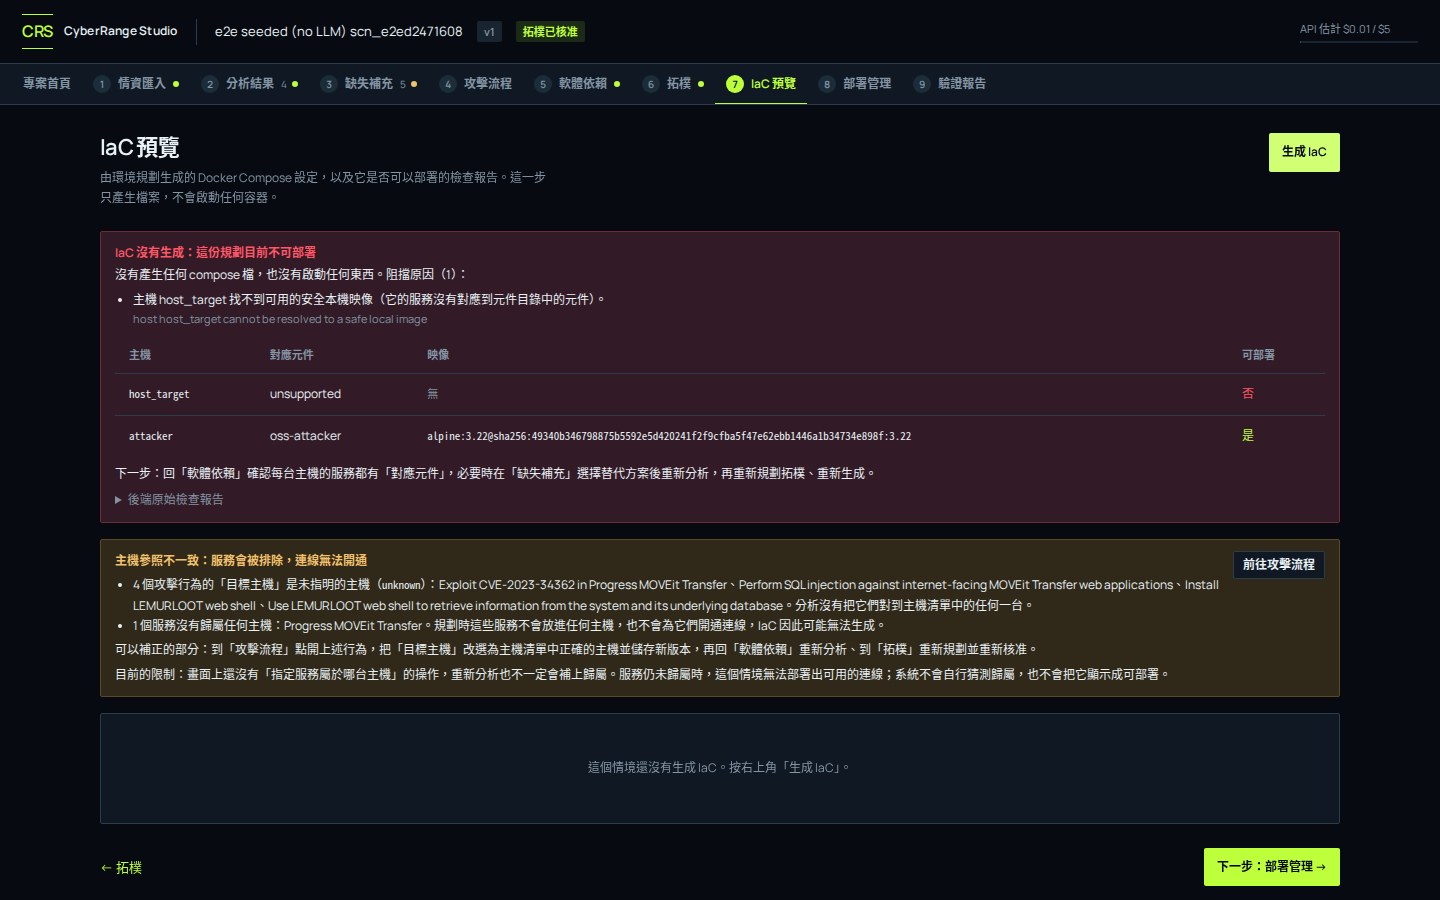
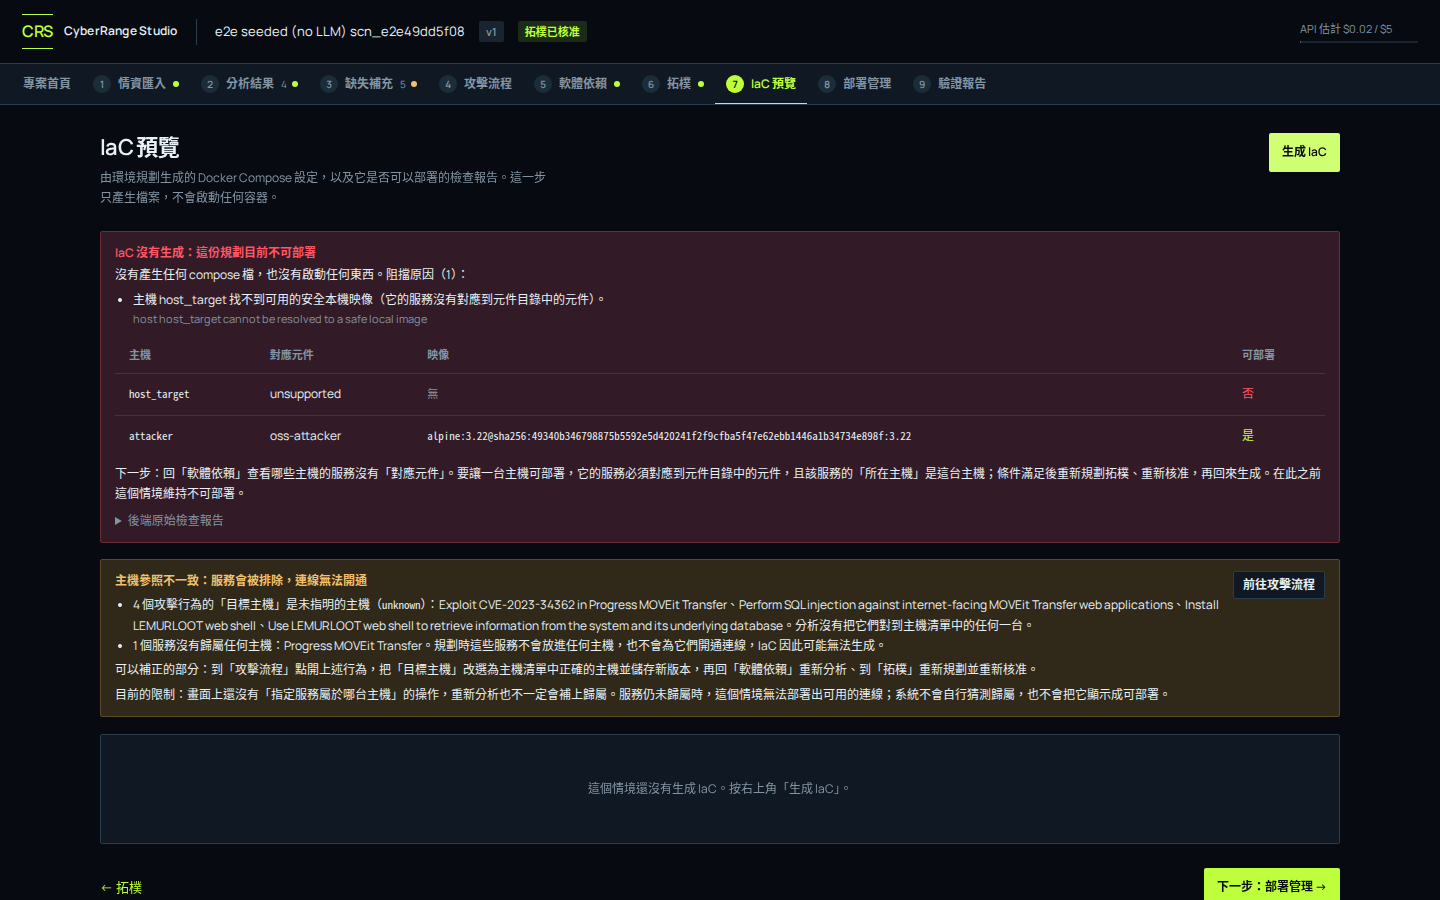
web: show where answers are written, no-component services, new planner notes, relation status reasons; report

diff --git a/apps/web/src/pages/DepsPage.tsx b/apps/web/src/pages/DepsPage.tsx
@@ -16,7 +16,10 @@ function ServiceRow({ s, hosts }: { s: ServiceItem; hosts?: string[] }) {
       <td className="mono">{s.version ?? <span className="muted">未知</span>}</td>
       <td>{hosts?.length ? hosts.join("、") : <span className="muted">—</span>}</td>
       <td>
-        {s.catalogue_component ? <span className="mono">{s.catalogue_component}</span> : <span className="muted">未對應</span>}
+        {s.catalogue_component ? <span className="mono">{s.catalogue_component}</span>
+          : (s as { no_component?: boolean }).no_component
+            ? <span className="status-FAIL" title="元件目錄裡沒有這個軟體，也不會自動用別的軟體頂替。要部署需在「缺失補充」明確選擇替代方案。">目錄無此元件</span>
+            : <span className="muted">未對應</span>}
         {s.is_substitute && <span className="tag sub" style={{ marginLeft: 6 }} title="環境中使用的不是報告裡的原始軟體">替代品</span>}
       </td>
       <td>{s.cve?.length ? s.cve.map((c) => <div key={c} className="mono">{c}</div>) : <span className="muted">—</span>}</td>
@@ -42,6 +45,12 @@ function Body({ ir }: { ir: ScenarioIR }) {
     hosts.forEach((h) => h.service_refs?.forEach((r) => m.set(r, [...(m.get(r) ?? []), h.role || h.id])));
     return m;
   }, [hosts]);
+  const hostOfRef = (s: ServiceItem) => {
+    const ref = (s as { host_ref?: string }).host_ref;
+    const h = ref ? hosts.find((x) => x.id === ref) : undefined;
+    return ref ? [h?.role || ref] : undefined;
+  };
+  const noComponent = services.filter((s) => (s as { no_component?: boolean }).no_component);
   const substitutes = services.filter((s) => s.is_substitute);
   const has = hosts.length > 0 || services.length > 0;
   // The dependency analysis stamps a fidelity verdict on the IR; without it, what is listed below came straight from the report analysis.
@@ -65,6 +74,15 @@ function Body({ ir }: { ir: ScenarioIR }) {
         </Notice>
       )}
       {analysed && <RefIssuesNotice ir={ir} context="deps" />}
+      {analysed && noComponent.length > 0 && (
+        <Notice kind="warn" title={`${noComponent.length} 個軟體在元件目錄中沒有可部署的對應`}>
+          <div data-testid="no-component">
+            {noComponent.map((s) => s.name || s.id).join("、")}。系統不會自動拿別的軟體頂替，所以目前這個情境無法生成可部署的 IaC。
+            若接受用替代軟體教學，可到「缺失補充」對相關項目選「用替代方案」並寫明用什麼替代，再回來重新分析。
+            重新分析後請在下方確認：替代軟體有出現在該主機的「服務」欄，且「對應元件」有值。只出現在服務清單、「所在主機」是「—」的替代軟體不會被部署。
+          </div>
+        </Notice>
+      )}
 
       {!has ? (
         <div className="card"><Empty>這個情境還沒有主機與服務資料。按右上角「執行依賴分析」由後端產生。</Empty></div>
@@ -107,7 +125,7 @@ function Body({ ir }: { ir: ScenarioIR }) {
             {services.length === 0 ? <Empty>沒有服務資料。</Empty> : (
               <table className="tbl">
                 <thead><tr><th>名稱</th><th>版本</th><th>所在主機</th><th>對應元件</th><th>CVE</th><th>依據</th><th>來源</th></tr></thead>
-                <tbody>{services.map((s) => <ServiceRow key={s.id} s={s} hosts={hostsOf.get(s.id)} />)}</tbody>
+                <tbody>{services.map((s) => <ServiceRow key={s.id} s={s} hosts={hostsOf.get(s.id) ?? hostOfRef(s)} />)}</tbody>
               </table>
             )}
           </div>

diff --git a/apps/web/src/pages/MissingPage.tsx b/apps/web/src/pages/MissingPage.tsx
@@ -458,6 +458,19 @@ export function openCardCount(ir: ScenarioIR): number {
   return buildGroups(ir, makeNamer(ir)).filter((g) => g.items[0].status === "open").length;
 }
 
+/** Fields the backend added to missing items that the shared TS type may not list yet. */
+type Where = { collection?: string; id?: string; field?: string };
+const itemX = (m: MissingItem) => m as MissingItem & { target?: Where; applied_to?: Where; write_back?: string };
+const WHERE_FIELD: Record<string, string> = { os: "作業系統", os_version: "作業系統版本", network_placement: "網路位置", version: "版本", port: "埠號", name: "名稱", role: "角色" };
+/** "主機 victim-web 的作業系統" for a write-back location; empty when there is none. */
+function whereText(w: Where | undefined, ir: ScenarioIR): string {
+  if (!w || !w.id) return "";
+  const isHost = w.collection === "hosts";
+  const rec: any = (isHost ? ir.hosts : ir.services)?.find((x) => x.id === w.id);
+  const label = rec ? (isHost ? rec.name || rec.role : rec.name) || w.id : w.id;
+  return `${isHost ? "主機" : "服務"} ${label} 的${WHERE_FIELD[w.field ?? ""] ?? w.field ?? "欄位"}`;
+}
+
 const clip = (q: string, n = 160) => (q.length > n ? `${q.slice(0, n)}…` : q);
 
 function ItemCard({ group, ir, scenarioId, onDone, hasPdf, locate, located }: {
@@ -564,6 +577,9 @@ function ItemCard({ group, ir, scenarioId, onDone, hasPdf, locate, located }: {
         <div style={{ fontSize: 13 }}>
           <span className="muted">處理內容：</span>{item.resolution} <SourceTag source={item.resolution_source} />
           {item.status === "llm_suggested" && <span className="muted" style={{ fontSize: 12 }}>（LLM 的建議，尚未經你確認）</span>}
+          {whereText(itemX(item).applied_to, ir) && <div className="muted" style={{ fontSize: 12 }} data-testid="applied-to">已寫入情境資料：{whereText(itemX(item).applied_to, ir)}（標示為使用者來源）。</div>}
+          {!itemX(item).applied_to && itemX(item).write_back && <div className="muted" style={{ fontSize: 12 }} data-testid="write-back">只保留為文字，沒有寫入主機／服務欄位：{itemX(item).write_back}</div>}
+          {!itemX(item).applied_to && !itemX(item).write_back && item.status !== "open" && item.status !== "accepted_unknown" && <div className="muted" style={{ fontSize: 12 }}>這個回答只保留為文字紀錄；後續的依賴分析與拓樸規劃不一定會採用。</div>}
         </div>
       )}
 
@@ -617,6 +633,11 @@ function ItemCard({ group, ir, scenarioId, onDone, hasPdf, locate, located }: {
           </div>
           <textarea rows={2} value={text} onChange={(e) => setText(e.target.value)} placeholder={res.placeholder} disabled={submit.busy}
             aria-label={res.needText ? `${res.label}（必填）` : `${res.label}備註（選填）`} aria-required={res.needText} />
+          {mode !== "accepted_unknown" && whereText(itemX(item).target, ir) && (
+            <div className="muted" style={{ fontSize: 12 }} data-testid="write-target">
+              送出後，你填的內容會原樣寫入「{whereText(itemX(item).target, ir)}」。請只填這個欄位的值（例如作業系統就填作業系統名稱），其他說明請用頁面下方的自由補充。
+            </div>
+          )}
           <div className="muted" style={{ fontSize: 12 }} data-testid="resolution-hint">
             {res.needText
               ? (text.trim() ? "送出後會標示為使用者來源，不會當成原文證據。" : "必填：請先填寫內容，「送出」才會啟用。")

diff --git a/apps/web/src/pages/TopologyPage.tsx b/apps/web/src/pages/TopologyPage.tsx
@@ -116,6 +116,13 @@ const NOTE_RULES: [RegExp, (m: RegExpMatchArray) => string][] = [
   [/^Actions for host (.+) do not identify one of its multiple services; no inbound service port was opened\.$/, (m) => `針對主機 ${m[1]} 的行為沒有指明是它的哪一個服務，未開通任何連入埠。`],
   [/^Confirmed dependency (.+) has no uniquely identified destination service port; default deny remains in effect\.$/, (m) => `已確認的依賴 ${m[1]} 無法唯一對應到目的服務埠，維持預設拒絕。`],
 ];
+NOTE_RULES.push(
+  [/^Host (.+) was placed on the external network as the inferred entry point \(basis: (.+)\); the source does not state its network placement\. Confirm or correct it\.$/, (m) => `主機 ${m[1]} 被放在對外網路，當作推定的入侵入口（依據：${m[2]}）。原文沒有寫它的網路位置，請確認或在「缺失補充」更正。`],
+  [/^No target host is stated or inferable as reachable from outside; .*$/, () => "沒有任何目標主機被寫明或可推定為外部可達；在補上某台主機的網路位置之前，攻擊者到不了任何目標。"],
+  [/^Host (.+) needs (.+), which the catalogue cannot deploy \((.+)\)\. It is not replaced by a stand-in\.$/, (m) => `主機 ${m[1]} 需要 ${m[2]}，元件目錄無法部署它（${m[3]}）；系統沒有用其他軟體頂替。`],
+  [/^Host (.+) needs (.+) as a VM, which is not deployable yet \((.+)\)\.$/, (m) => `主機 ${m[1]} 需要以虛擬機執行 ${m[2]}，目前還不能部署（${m[3]}）。`],
+  [/^Action (.+) is stated to run from (.+) against (.+), but no destination service port is identified; the path stays denied\.$/, (m) => `行為 ${m[1]} 寫明由 ${m[2]} 對 ${m[3]} 發動，但找不到目的服務埠，這條路徑維持不通。`],
+);
 const noteZh = (n: string): string | null => { for (const [re, f] of NOTE_RULES) { const m = n.match(re); if (m) return f(m); } return null; };
 
 function Body({ ir }: { ir: ScenarioIR }) {

diff --git a/apps/web/src/pages/AnalysisPage.tsx b/apps/web/src/pages/AnalysisPage.tsx
@@ -340,7 +340,10 @@ function Body({ ir }: { ir: ScenarioIR }) {
                     <td>{actionName.get(r.from_action) ?? <span className="mono muted">{r.from_action}</span>}</td>
                     <td><span className={`tag ${r.kind === "dependency" ? "dep" : "temporal"}`}>{r.kind === "dependency" ? "依賴" : "時間先後"}</span></td>
                     <td>{actionName.get(r.to_action) ?? <span className="mono muted">{r.to_action}</span>}</td>
-                    <td className="muted" style={{ fontSize: 12 }}>{r.rationale ?? "—"}</td>
+                    <td className="muted" style={{ fontSize: 12 }}>
+                      {r.rationale ?? "—"}
+                      {(r as { epistemic_reason?: string }).epistemic_reason && <div title="後端說明為何不把這條關係標成原文支持（英文原文）">判定依據：{(r as { epistemic_reason?: string }).epistemic_reason}</div>}
+                    </td>
                     <td className="nowrap"><EpistemicBadge status={r.epistemic_status} source={r.source} /><div style={{ marginTop: 4 }}><SourceTag source={r.source} /></div></td>
                     <td>
                       <div style={{ marginBottom: 5 }}><CitationBadge summary={cite(r)} source={r.source} basis={isInferred(r)} /></div>

diff --git a/apps/web/src/pages/IacPage.tsx b/apps/web/src/pages/IacPage.tsx
@@ -76,7 +76,7 @@ function IacFailure({ detail }: { detail: { errors: string[]; report: any } }) {
             </table>
           </div>
         )}
-        <div>下一步：回「軟體依賴」確認每台主機的服務都有「對應元件」，必要時在「缺失補充」選擇替代方案後重新分析，再重新規劃拓樸、重新生成。</div>
+        <div>下一步：回「軟體依賴」查看哪些主機的服務沒有「對應元件」。要讓一台主機可部署，它的服務必須對應到元件目錄中的元件，且該服務的「所在主機」是這台主機；條件滿足後重新規劃拓樸、重新核准，再回來生成。在此之前這個情境維持不可部署。</div>
         {detail.report && <details style={{ marginTop: 6 }}><summary className="muted" style={{ cursor: "pointer" }}>後端原始檢查報告</summary><div style={{ marginTop: 6 }}><DataView data={detail.report} /></div></details>}
       </div>
     </Notice>

diff --git a/apps/web/src/components/RefIssues.tsx b/apps/web/src/components/RefIssues.tsx
@@ -25,7 +25,7 @@ export function findRefIssues(ir: ScenarioIR): RefIssues {
       ? ir.actions.filter((a) => a.target_host_ref && !isPlaceholder(a.target_host_ref) && !hostIds.has(a.target_host_ref)).map((a) => ({ ...named(a), ref: a.target_host_ref! }))
       : [],
     placeholderActions: ir.actions.filter((a) => isPlaceholder(a.target_host_ref)).map(named),
-    unplacedServices: (ir.services ?? []).filter((s) => !placed.has(s.id)).map((s) => ({ id: s.id, name: s.name })),
+    unplacedServices: (ir.services ?? []).filter((s) => !placed.has(s.id) && !(s as { host_ref?: string }).host_ref).map((s) => ({ id: s.id, name: s.name })),
   };
 }
 

diff --git a/reports/overnight/worker-reports/frontend-eng.md b/reports/overnight/worker-reports/frontend-eng.md
@@ -69,6 +69,28 @@ CR_ENV_FILE=/home/tyc4d/cr-project/.env CR_BUDGET_HARD_CAP_USD=5 CR_BUDGET_STOP_
 
 觀察到但沒有處理（列給 Lead 判斷）：流程頁的設計檢查對「4 個行為的目標主機都是 unknown」顯示「沒有發現問題／通過」。加一條檢查規則屬於新增檢查項目，我沒有自行加。
 
+## 批次 5（commit 12bdad5）
+
+| QA 編號 | 問題 | 修法 | 驗證 |
+|---|---|---|---|
+| UX-03 | 後端 severity=major，畫面一律顯示「次要」 | 所有項目嚴重度相同時，標籤沿用後端的字，只用影響步驟數排序 | e2e 通過；截圖 09 |
+| UX-04 | 程式放的佔位主機被寫成「原文已知」 | 後端標 supported 才寫「原文已知」，否則寫「系統推定（原文未證實）」 | e2e 通過；截圖 09 |
+| UX-02 | 英文的缺失原因被藏起來 | 英文原因照樣顯示，標明是後端英文原文 | 無 e2e |
+| UX-05 | 按下一步後停在前一頁的捲動位置 | 換頁時主內容捲回頂端 | e2e 通過 |
+| UX-06 | 矮視窗展開設計檢查後控制項蓋住節點 | 視窗高度 ≤ 800 時，設計檢查開合後自動重新置中 | 截圖 08 人工檢視：節點不再被圖例或工具列遮住。**只測了「1280×720 進頁後展開」，沒測 QA 的「先展開再縮小視窗」** |
+| ADM-06 | 部署歷史點列看不到細節 | 紀錄列可展開「完整輸出」（stderr／stdout 原文） | 無 e2e（測試用的失敗紀錄沒有輸出內容） |
+| ADM-07B | healthy 的意思不清楚 | 健康檢查下方說明：只代表容器在執行、未回報不健康，服務是否可用看驗證報告 | 無 e2e（需要已部署的環境） |
+
+## 批次 6（配合 scenario-eng 後端新欄位；本分支已合併 agent/scenario-eng 887ef7b，merge 080e381）
+
+- 缺失卡片：回答前說明「你填的內容會原樣寫入〈主機 X 的作業系統〉」，回答後顯示「已寫入情境資料：…」或「只保留為文字，沒有寫入」及後端給的原因（對應 EI-05）。e2e 通過並比對後端實際儲存值；截圖 11、12。
+- 依賴頁：目錄沒有的軟體標「目錄無此元件」並有整頁提示；服務的所在主機也讀後端新的 `host_ref`。e2e 通過；截圖 10。
+- 拓樸：新增 5 種規劃備註的中文（推定入口主機、無外部可達主機、目錄無法部署、VM 尚不可部署、行為路徑無目的埠）。無 e2e。
+- 分析頁關係表：顯示後端的 `epistemic_reason`（為何不標成原文支持）。無 e2e。
+- scenario-eng 列的前端待辦中**尚未做**：`source_certainty=hedged`、`exposure_basis`、`quality.excluded_non_attacker_actions` 的顯示。
+
+`qa-fixes`＋`motion`：13 passed；`tsc`、`npm run build` 通過。
+
 ## 完整 `npm run e2e` 結果（未通過）
 
 | 執行 | 後端 | 結果 |
@@ -81,6 +103,10 @@ CR_ENV_FILE=/home/tyc4d/cr-project/.env CR_BUDGET_HARD_CAP_USD=5 CR_BUDGET_STOP_
 - 我沒有修改 `full-flow.spec.ts` 的斷言。
 - 第 2 次多出的失敗是我自己的測試：新後端在補件回應裡會新增一筆後續問題（`missing-service-svc1-version`），所以「待補充數 −1」不成立。已改成比對後端實際狀態（該項為 accepted_unknown、頁面數字等於後端 open 數），不是放寬成功條件。
 - 合併後後端單元測試：`93 passed`。
+- **第 3 次**（合併 scenario-eng 887ef7b 後）：12 passed／1 failed／1 未執行。full-flow 這次通過拓樸（2 條連線），改在 IaC 步驟失敗：後端拒絕生成，`h1`、`h2` 找不到可用映像，因為 demo 報告裡的「web service／database service」在目錄中沒有對應元件（`no_component`），新後端不再自動用 nginx／postgres 頂替。部署段仍未執行。
+- 我用 API 試了「選替代方案」這條路：對 `planner_dep_software-web-service`／`-database-service` 送出 substitute_chosen（nginx、PostgreSQL）後重新分析，會多出 `svc-oss-nginx`、`svc-oss-postgres` 兩個使用者服務，但它們沒有歸屬主機、`is_substitute=false`，原本的 s1／s2 仍是 `no_component`；重新規劃後備註寫「沒有主機歸屬的服務被排除」，IaC 照樣 422。**也就是目前 demo 情境沒有任何畫面操作能走到可部署**，full-flow e2e 在這個後端上無法通過，需要後端決定替代方案如何掛回原主機。我沒有改 full-flow 的斷言。
+- 合併後後端單元測試：122 passed／**1 failed**（`tests/unit/test_planning_consistency.py::DifferentProductsAreNotAliases::test_vendor_word_inside_another_product_name_does_not_match`，`no_component` 為 None）。這是合併後在我的分支上的結果，沒有在 scenario-eng 自己的分支上重跑確認。
+- 另外觀察到：full-flow 測試把第一張缺失卡（作業系統題）填了一句無關的說明文字，新後端照樣把整句寫進 `h1.os`。前端已加上「內容會原樣寫入該欄位」的提示，但後端不檢查內容是否像作業系統。
 - 證據：`reports/overnight/evidence/frontend-eng/full-e2e/`（兩次的輸出、run-log、失敗截圖）。
 - 注意：本分支現在含 scenario-eng 的提交（merge ec09258），整合時請留意。
 
@@ -89,8 +115,8 @@ CR_ENV_FILE=/home/tyc4d/cr-project/.env CR_BUDGET_HARD_CAP_USD=5 CR_BUDGET_STOP_
 - 完整 `npm run e2e` 尚未通過（見上）；部署／驗證段在本輪從未被 e2e 執行到。
 - 422 白話訊息、部署 up／down 失敗的精簡顯示（CommandFailure）沒有 e2e 覆蓋，也沒有用真實失敗看過畫面。
 
-## 停止點（用量上限，工作在此中止）
+## 目前狀態
 
-- 自己起的 API(8131)／Vite(5181) 已關閉；本輪從未成功部署，沒有留下容器。
-- 尚未處理的 QA 項目（前端可做）：部署紀錄列不能展開看完整 stderr（admin「失敗紀錄診斷」）；流程儲存後舊拓樸仍顯示已核准（需後端在規劃記錄來源版本）；清除後舊驗證報告的標示只在「未部署」提示中說明。
-- 需後端／產品：ADM-01 主機埠固定 42000 無預檢、ADM-02／03 服務對應與殘留、full-flow 0 連線。
+- 自己的 API(8131)／Vite(5181)：寫這段時仍在跑，收工時會關。本輪從未成功部署，沒有容器。
+- 還沒做（前端可做）：hedged／exposure_basis／排除的非攻擊者行為的顯示；流程儲存後舊拓樸仍顯示已核准（需後端在規劃記錄來源版本）；設計檢查對 unknown 目標主機不提醒。
+- 需後端／產品：替代方案無法掛回原主機（full-flow 阻塞）、上述 1 項單元測試失敗、ADM-01 主機埠（main 已合 infra 的動態埠，未重測）、ADM-02／03。
